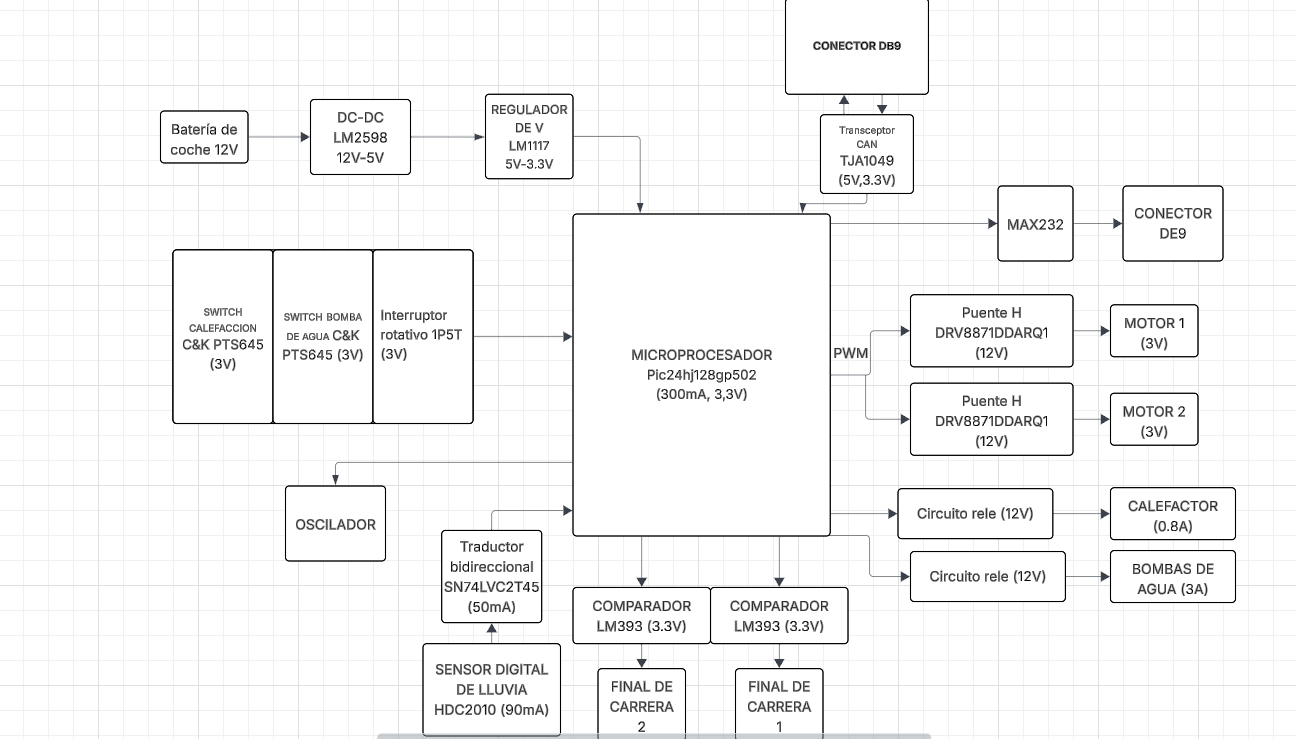
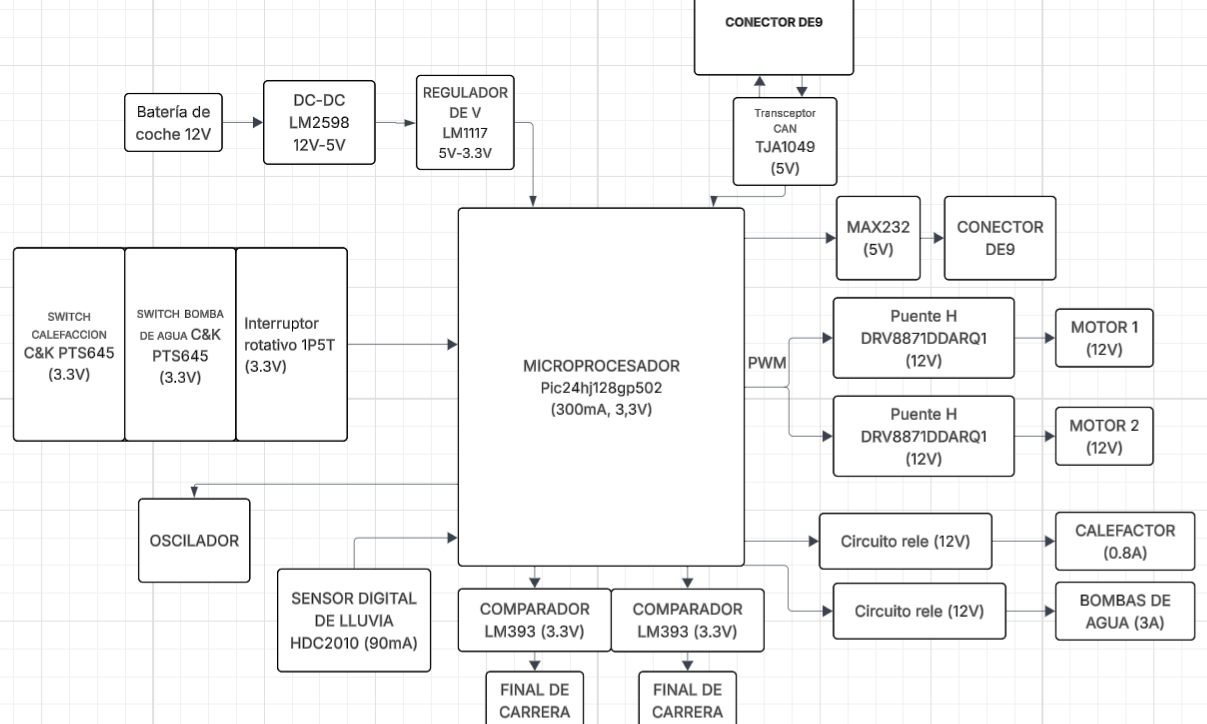
readme

diff --git a/README.md b/README.md
@@ -12,14 +12,22 @@ EL objetivo principal es  mantener  la luna del cristal limpia, para ello tenemo
 
 
 ## Diagrama de blocs
-![Diagrama de bloques](Diagrama%20de%20bloques%20VF.png)
+![Diagrama de bloques](DIAGRAMA%20DE%20BLOQUES%20VF.png)
 
 
 
 ### Descripció/funcionalitat de cada bloc
 
-  *
-
+  Tenemos el micro en el centro que funcionará como cerebro de todo.
+  Como se puede observar uno de los sería la alimentación, consta de un conector que permite meter 12V, después pasa por un convertidor        
+  DC-DC, para obtener 5V y por último un regulador para tener un voltaje de 3V.
+  Por otro lado tenemos el bloque de potencia: consta de los drivers y motores de los limpiaparabrisas, de los circuitos relé tanto para 
+  las bombas, como para el calefactor, y de finales de carrera que permitan volver a su estado inicial.   
+  Por último un bloque de conexión/usuario: consta del BUS CAN, este permite la comunicación con otros módulos, el UART, transforma los 
+  datos de forma que puedan ser leídos/enviados a un ordenador. También esta el sensor digital de lluvia que detecta cuando hay lluvia y 
+  que el motor se ponga en marcha, y por último tendríamos la botonera: sirve para que el usuario acomode el modo del limpiaparabrisas o 
+  encienda y apague el calefactor.       
+  
 -----------
 
 ## Requisits / Especificacions
